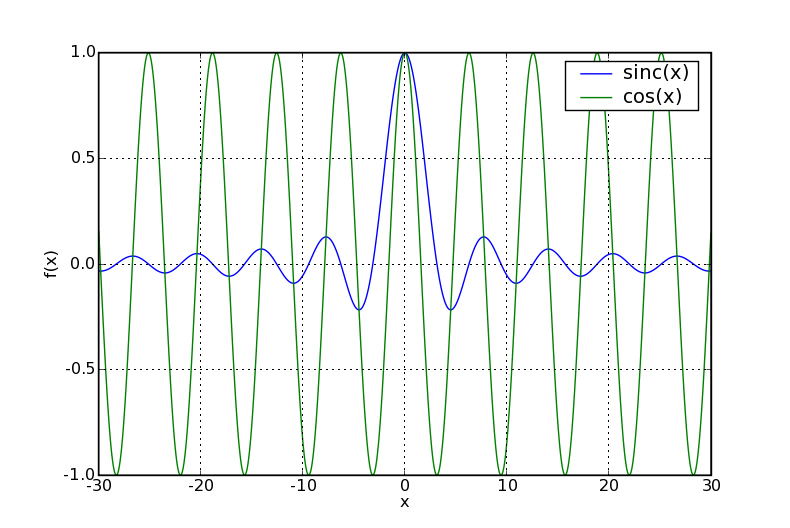
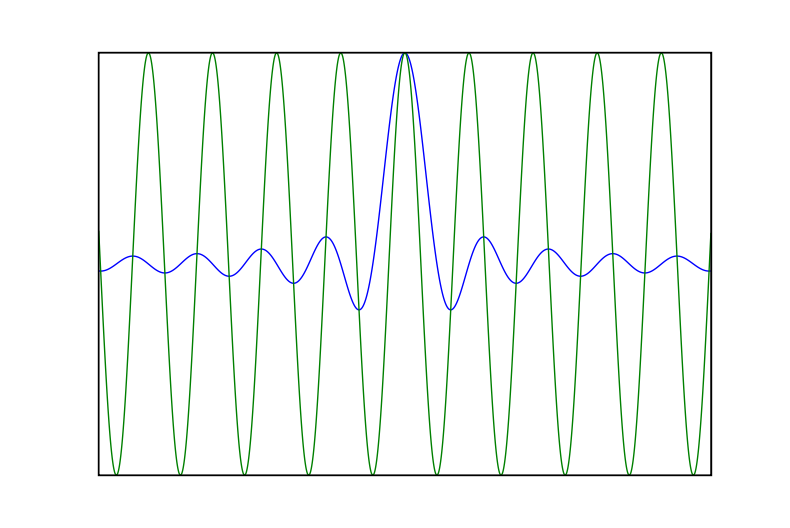
Could not get fonts pixel-identical across platforms, so disabled font-rendering during plotting.

diff --git a/testing/matplotlib_tests.py b/testing/matplotlib_tests.py
@@ -18,18 +18,27 @@ class MPLTest(unittest.TestCase):
         f = python_shell.mpl_new_figure()
         import pylab
 
-        # make sure we hardcode the font!
-        pylab.rcParams['font.sans-serif'] = ['Bitstream Vera Sans']
-        pylab.rc('font', family='sans-serif')
+
+        # unfortunately, it's almost impossible to get pixel-identical
+        # rendering on all platforms, so we can only check that the plot
+        # itself is correct (all font-rendering is disabled)
+
+        # make sure we hardcode the font! (previous experiment)
+        #pylab.rcParams['font.sans-serif'] = ['Bitstream Vera Sans']
+        #pylab.rc('font', family='sans-serif')
 
         from pylab import arange, plot, sin, cos, legend, grid, xlabel, ylabel
         a = arange(-30, 30, 0.01)
         plot(a, sin(a) / a, label='sinc(x)')
         plot(a, cos(a), label='cos(x)')
-        legend()
+        #legend()
         grid()
-        xlabel('x')
-        ylabel('f(x)')
+        #xlabel('x')
+        #ylabel('f(x)')
+
+        # disable x and y ticks (no fonts allowed, remember)
+        pylab.xticks([])
+        pylab.yticks([])
 
         # width and height in inches
         f.set_figwidth(7.9)
